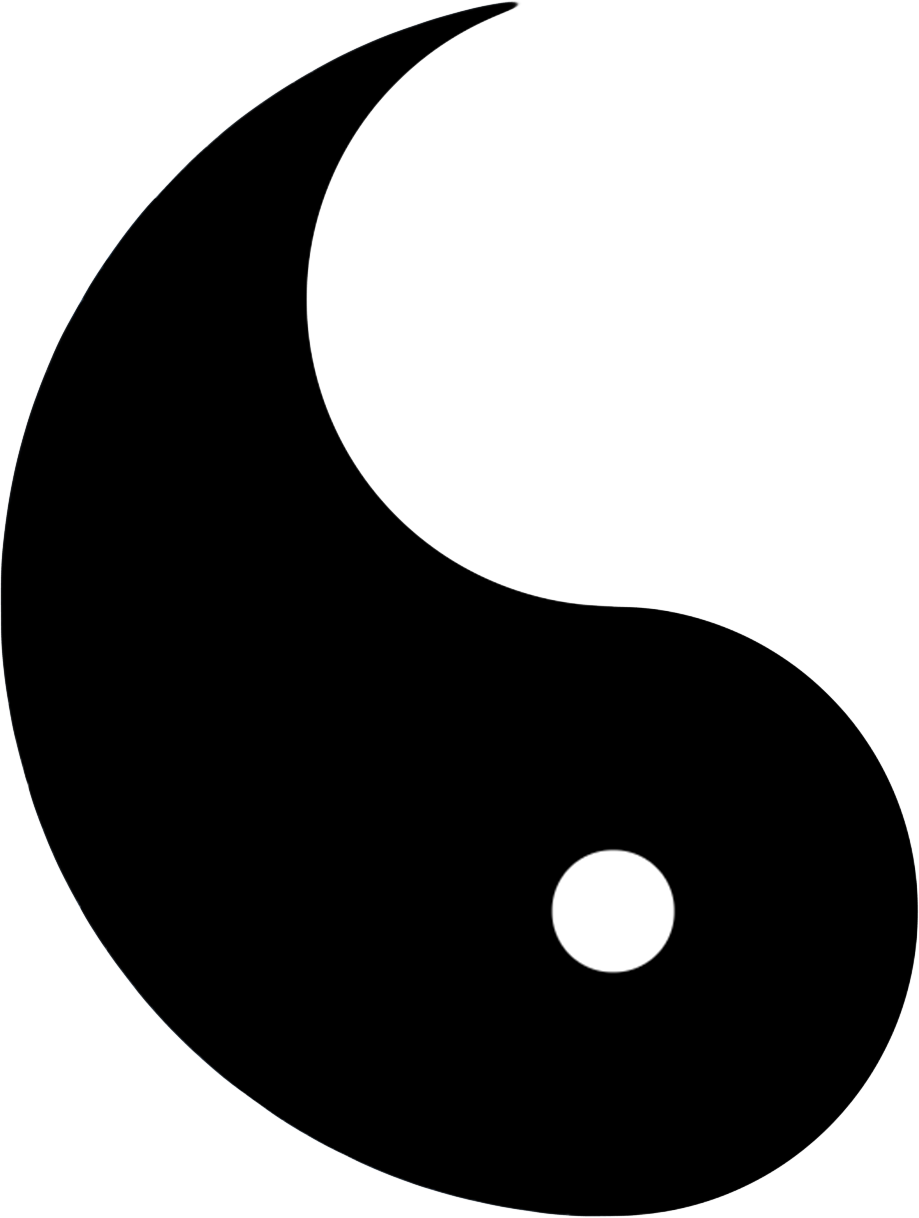
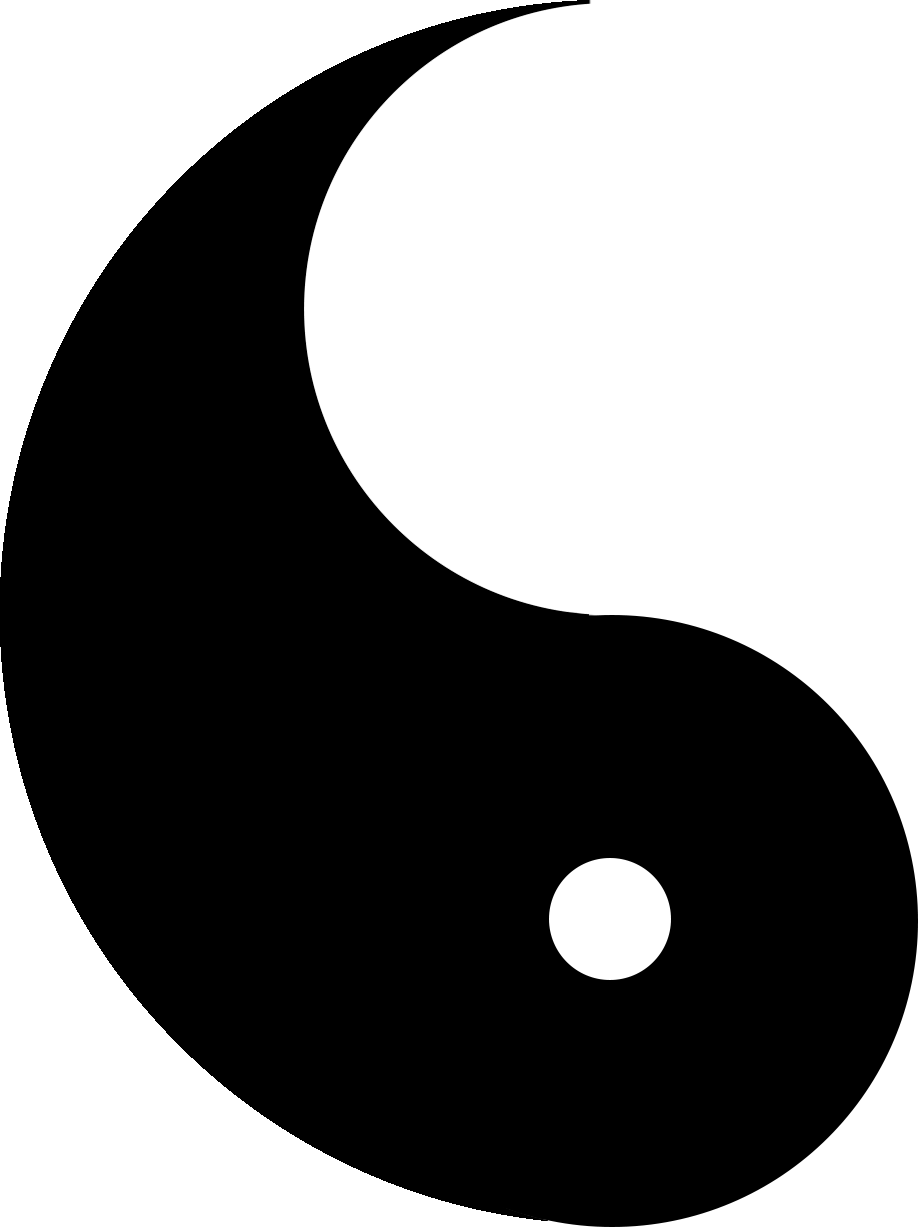
mdf door1

diff --git a/index.css b/index.css
@@ -8,9 +8,7 @@
 .zero {
 	position: relative;
 	height: 100vh;
-	background-image: url('images/space1.jpg');
-	background-position: center;
-	background-size: cover; 
+	
 	overflow: hidden;
 
 
@@ -33,89 +31,26 @@
 	transition-delay: 2s;*/
 	/*animation: rotate 0.001s infinite linear;*/	
 }
-.the-second_wrap {
-	flex: 50%;
-	background-color: black;
-	height: 100%;
-	position: relative;
-	/*transform: translateX(-145%);
-	transition: transform 5s linear;
-	transition-delay: 2s;*/
-}
-/*.the-second_mask {
-	position: absolute;
-	top:0;
-	left:100%;
-	background-color: silver;
-	width: 100%;
-	height:50%;
-	transform: translateX(-50%);
-	border-radius: 100%;
-}*/
-.the-thirst_wrap {
-	flex: 50%;
-	background-color: white;
-	height: 100%;
-	position: relative;
-	/*transform: translateX(145%);
-	transition: transform 5s linear;
-	transition-delay: 2s;*/
-}
-/*.the-thirst_mask {
-	position: absolute;
-	top:50%;
-	left:-100%;
-	width: 100%;
-	height:50%;
-	transform: translateX(50%);
-	border-radius: 100%;
-	background-color: silver;
-	transition: background-color;
-	transition-delay: 2s;
-}*/
-.the-thirst {
-	position: absolute;
-	top:0;
-	left:-100%;
-	background-color: white;
-	width: 100%;
-	height:50%;
-	transform: translateX(50%);
-	border-radius: 100%;
-	display: flex;
-	justify-content: center;
-	align-items: center;
-	z-index: 1;
-}
-.the-thirst_child {
-	width:20%;
-	height:20%;
-	background-color: black;	
-	border-radius: 100%;
-}
+
 .the-second {
+	width: 75%;
+	height:100%;
 	position: absolute;
-	top:50%;
-	left:50%;
-	background-color: black;
-	width: 50%;
-	height:50%;
-	transform: translateX(-50%);
-	border-radius: 100%;
-	display: flex;
-	justify-content: center;
-	align-items: center;
-	z-index: 1;
-	/*margin-left: -71%;
-	transition: margin 5s linear;
-	transition-delay: 2s;*/
+	top:0px;
+	left:0px;
+	background-image: url(images/Am.png);
+	background-size: 100% 100%;
 }
-.the-second_child {
-	width:20%;
-	height:20%;
-	background-color: white;	
-	border-radius: 100%;
+.the-thirst {
+	width: 75%;
+	height:100%;
+	position: absolute;
+	top:0px;
+	right:0px;
+	background-image: url(images/Duong.png);
+	background-size: 100% 100%;
 }
+
 @keyframes rotate {
 	from {transform: rotate(0deg);}
 	to {transform: rotate(360deg);}

diff --git a/index.html b/index.html
@@ -10,19 +10,9 @@
 	<div class="zero">
 		<div class="the-first_wrap">
 			<div class="the-first">
-				<div class="the-second_wrap">
-					<div class="the-second_mask"></div>
+				<div class="the-second">	
 				</div>
-				<div class="the-second">
-					<div class="the-second_child">
-					</div>	
-				</div>
-				<div class="the-thirst_wrap">
-					<div class="the-thirst_mask"></div>
-					<div class="the-thirst">
-						<div class="the-thirst_child">
-						</div>		
-					</div>
+				<div class="the-thirst">	
 				</div>
 			</div>
 	    </div>
